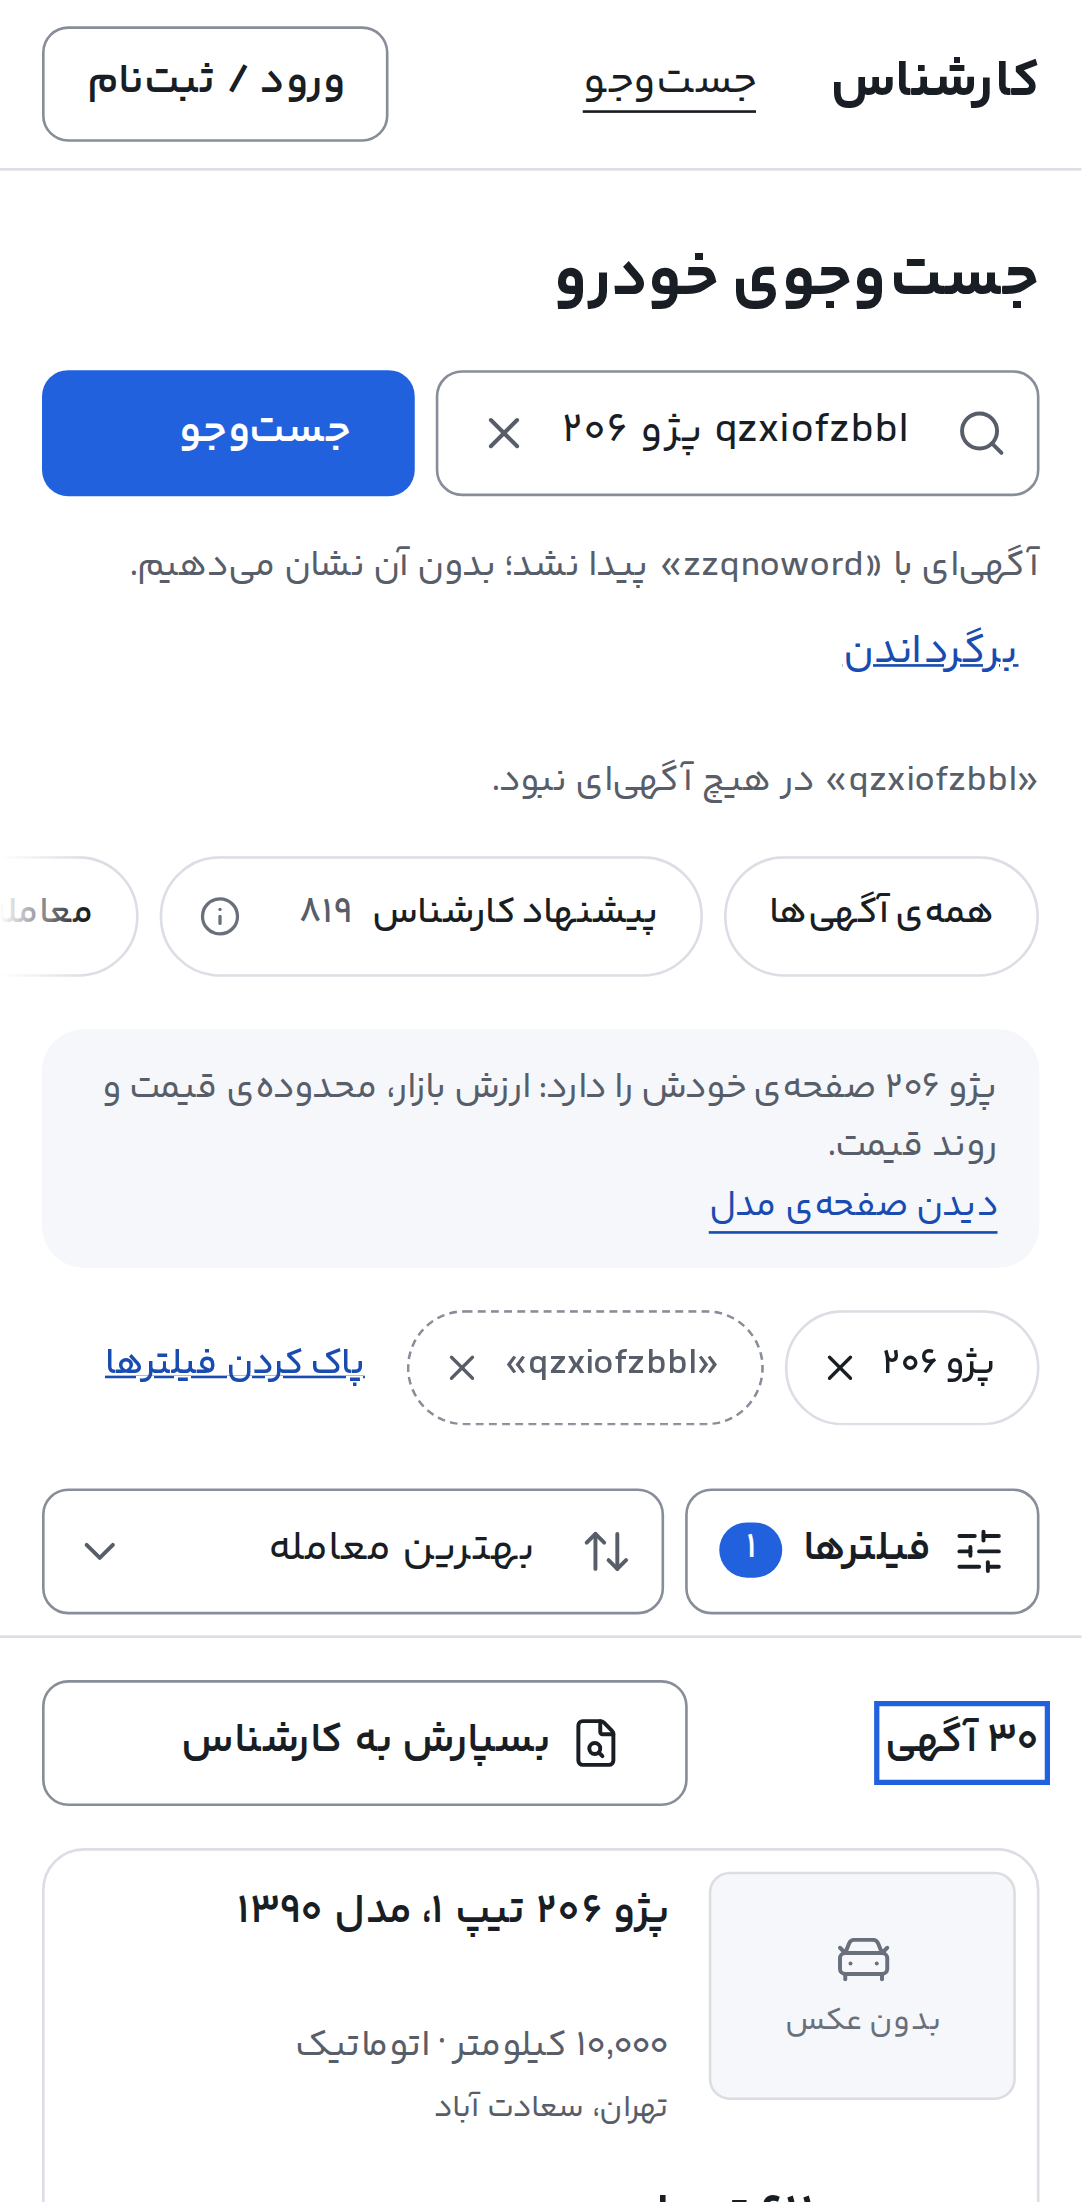
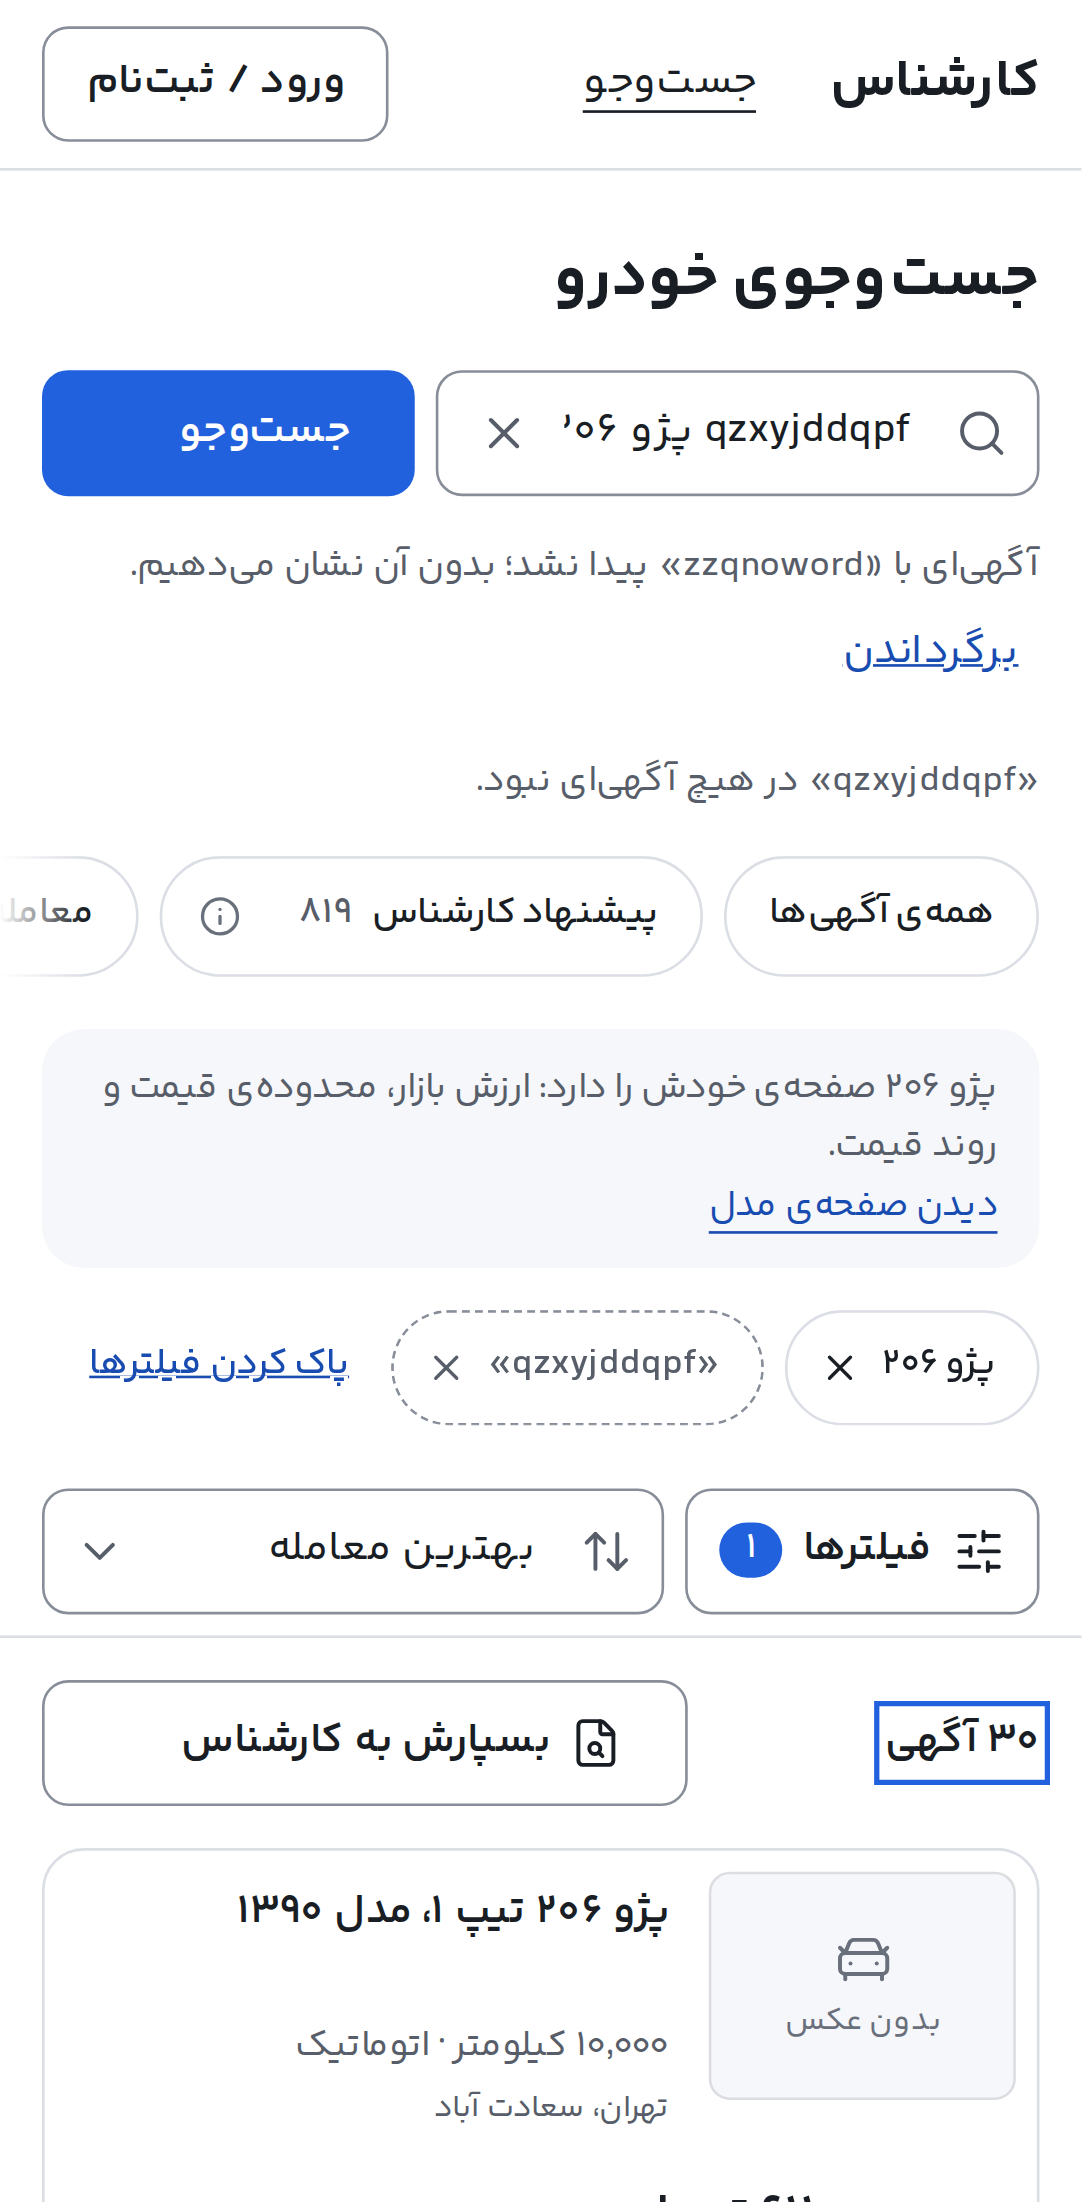
CS-111: the buyer's words are their own bidi run in the notice and the quiet chip; evidence of the counts; learnings; ADR timings

diff --git a/e2e/tests/app/plain-search.spec.ts b/e2e/tests/app/plain-search.spec.ts
@@ -250,6 +250,34 @@ test.describe('the floor', () => {
     await expect(page.getByRole('button', { name: SMART_COPY.remove(seed.token) })).toBeVisible();
   });
 
+  test('nothing moves while a page with a sentence, a quiet chip and a line about left-out words loads', async ({
+    page,
+    seed,
+    browserName,
+  }) => {
+    test.skip(browserName !== 'chromium', 'layout-shift entries exist only in Chromium');
+    await page.addInitScript(() => {
+      let total = 0;
+      new PerformanceObserver((entries) => {
+        for (const entry of entries.getEntries() as (PerformanceEntry & {
+          value: number;
+          hadRecentInput: boolean;
+        })[]) {
+          if (!entry.hadRecentInput) total += entry.value;
+        }
+      }).observe({ type: 'layout-shift', buffered: true });
+      Object.defineProperty(window, 'layoutShiftTotal', { get: () => total });
+    });
+    const sentence = `${seed.token} پژو ۲۰۶ ${UNKNOWN_WORD}`;
+    await page.goto(`/search?q=${seed.token}&model=peugeot.206&ask=${encodeURIComponent(sentence)}`);
+    await expect(page.getByRole('region', { name: SMART_COPY.sentenceRegion })).toBeVisible();
+    await expect(page.getByRole('list', { name: SMART_COPY.results })).toBeVisible();
+    await page.evaluate(
+      () => new Promise((resolve) => requestAnimationFrame(() => requestAnimationFrame(resolve))),
+    );
+    expect(await page.evaluate(() => Number(Reflect.get(window, 'layoutShiftTotal')))).toBeLessThan(0.02);
+  });
+
   test('screenshots for the evidence', async ({ page, seed }, testInfo) => {
     await land(page, `${seed.token} پژو ۲۰۶ ${UNKNOWN_WORD}`);
     await expect(page.getByRole('region', { name: SMART_COPY.sentenceRegion })).toBeVisible();

diff --git a/apps/web/src/features/search/components/applied-chips.tsx b/apps/web/src/features/search/components/applied-chips.tsx
@@ -4,6 +4,7 @@ import { X } from 'lucide-react';
 import { Icon } from '@/components/ui/icon';
 import { useSearchNavigation } from '@/features/search/components/search-navigation';
 import { SEARCH_COPY } from '@/features/search/search-copy';
+import { isolatedWords } from '@/lib/isolated-words';
 import { canonical, type Search } from '@carshenas/search/search';
 
 // The applied filters as removable chips (listing-patterns.md: never a bare count): each says what it keeps in the
@@ -21,6 +22,8 @@ export type AppliedChip = {
   readonly label?: string;
   /** Words looked for in the listings' text, not a filter: drawn quieter (CS-111). */
   readonly quiet?: boolean;
+  /** The buyer's words inside `text`, set apart as their own run (they may be Latin or digits). */
+  readonly words?: string;
 };
 
 export function AppliedChips({ chips }: { chips: readonly AppliedChip[] }) {
@@ -43,7 +46,7 @@ export function AppliedChips({ chips }: { chips: readonly AppliedChip[] }) {
                   : 'border-divider bg-surface text-default'
               }`}
             >
-              {chip.text}
+              {chip.words === undefined ? chip.text : isolatedWords(chip.text, chip.words)}
               <Icon icon={X} size={16} />
             </button>
           </li>

diff --git a/apps/web/src/features/search/components/sentence-notes.tsx b/apps/web/src/features/search/components/sentence-notes.tsx
@@ -6,6 +6,7 @@ import { Icon } from '@/components/ui/icon';
 import { RefineReading } from '@/features/search/components/refine-reading';
 import { useSearchNavigation } from '@/features/search/components/search-navigation';
 import { SEARCH_COPY } from '@/features/search/search-copy';
+import { isolatedWords } from '@/lib/isolated-words';
 import type { SentenceView } from '@/lib/search-sentence';
 
 // What the page says about the sentence the buyer wrote, beside the filters it became (CS-111, S04): quiet lines, never a
@@ -46,7 +47,7 @@ export function SentenceNotes({
           role="status"
           className="flex flex-wrap items-center gap-x-2 text-secondary text-pretty text-muted"
         >
-          <span>{COPY.dropped(one.words)}</span>
+          <span>{isolatedWords(COPY.dropped(one.words), one.words)}</span>
           <button
             type="button"
             aria-label={COPY.putBackName(one.words)}

diff --git a/apps/web/src/features/search/components/sentence-notes.test.tsx b/apps/web/src/features/search/components/sentence-notes.test.tsx
@@ -55,6 +55,8 @@ test('a word left out is said with the one tap that puts it back, and the tap se
   const put: Search = { ...EMPTY_SEARCH, filters: { make: ['pride'] }, q: 'خوشگل' };
   show({ dropped: [{ words: 'خوشگل', put }] }, { sentence: 'پراید خوشگل' });
   expect(screen.getByRole('status')).toHaveTextContent(COPY.dropped('خوشگل'));
+  // The buyer's words are their own run inside the sentence: a Latin word keeps its direction and its quotes.
+  expect(screen.getByText('خوشگل', { selector: 'bdi' })).toBeInTheDocument();
   await user.click(screen.getByRole('button', { name: COPY.putBackName('خوشگل') }));
   expect(router.push).toHaveBeenCalledWith(
     `/search?q=${encodeURIComponent('خوشگل')}&make=pride&${new URLSearchParams({ ask: 'پراید خوشگل' }).toString()}`,

diff --git a/e2e/tests/app/home.spec.ts b/e2e/tests/app/home.spec.ts
@@ -507,8 +507,11 @@ test.describe('search box', () => {
       await heroBox(page).fill('پژو ۲۰۶ بدون رنگ');
       await heroBox(page).press('Enter');
       await expect(page).toHaveURL(/model=peugeot\.206/);
-      expect(new URL(page.url()).searchParams.get('nopaint')).toBe('1');
-      await expect(searchBar(page)).toHaveValue('پژو ۲۰۶ بدون رنگ');
+      const query = new URL(page.url()).searchParams;
+      expect(query.get('nopaint')).toBe('1');
+      expect(query.get('ask')).toBe('پژو ۲۰۶ بدون رنگ');
+      // The page itself needs its script to be drawn (its results stream into hidden elements that a script reveals):
+      // what a form without one can do is end at the right address.
     });
 
     test('an example chip works too', async ({ page }) => {

diff --git a/apps/web/src/features/search/components/applied-chips.test.tsx b/apps/web/src/features/search/components/applied-chips.test.tsx
@@ -23,6 +23,7 @@ const chips = [
   {
     key: 'q',
     text: SEARCH_COPY.chips.words('خوشگل'),
+    words: 'خوشگل',
     label: SEARCH_COPY.chips.remove('خوشگل'),
     without: { filters: { make: ['pride'] }, sort: 'price_asc' as const },
     quiet: true,
@@ -42,6 +43,7 @@ test('a word chip shows the words in quotes, is named «برداشتن «…»»
   const word = screen.getByRole('button', { name: SEARCH_COPY.chips.remove('خوشگل') });
   expect(word).toHaveTextContent('«خوشگل»');
   expect(word).toHaveClass('border-dashed');
+  expect(screen.getByText('خوشگل', { selector: 'bdi' })).toBeInTheDocument();
   expect(screen.getByRole('button', { name: SEARCH_COPY.chips.remove('پراید') })).not.toHaveClass(
     'border-dashed',
   );

diff --git a/apps/web/src/lib/isolated-words.tsx b/apps/web/src/lib/isolated-words.tsx
@@ -1,0 +1,18 @@
+import type { ReactNode } from 'react';
+
+// A text with the buyer's own words inside it set apart (`<bdi>`), so Latin words and digits typed into a right-to-left
+// sentence keep their own direction and the quotation marks around them stay where the sentence puts them (ui-design
+// rule 5, rtl-bidi.md). The text is one string from the copy files with the words in it once; the words are found in
+// it, so the copy is never split in two to make room for them.
+
+export function isolatedWords(text: string, words: string): ReactNode {
+  const at = words === '' ? -1 : text.indexOf(words);
+  if (at === -1) return text;
+  return (
+    <>
+      {text.slice(0, at)}
+      <bdi>{words}</bdi>
+      {text.slice(at + words.length)}
+    </>
+  );
+}

diff --git a/e2e/fixtures/smart-search.ts b/e2e/fixtures/smart-search.ts
@@ -100,7 +100,11 @@ export async function expectResultsShown(page: Page): Promise<void> {
  * context: nothing outside the app's own host is reached.
  */
 export async function primeSentenceSearch(browser: Browser, baseURL: string | undefined): Promise<void> {
-  const context = await browser.newContext(baseURL === undefined ? {} : { baseURL });
+  // Scripts on whatever the spec's own options say: a spec that tests the page without them still needs this one drawn.
+  const context = await browser.newContext({
+    javaScriptEnabled: true,
+    ...(baseURL === undefined ? {} : { baseURL }),
+  });
   const own = baseURL === undefined ? undefined : new URL(baseURL).host;
   await context.route(
     (url) => own !== undefined && url.host !== own,

diff --git a/apps/web/src/features/search/components/search-screen.tsx b/apps/web/src/features/search/components/search-screen.tsx
@@ -98,6 +98,7 @@ export async function SearchScreen({ searchParams, ask, understand, saveSearch }
           {
             key: 'q',
             text: SEARCH_COPY.chips.words(search.q),
+            words: search.q,
             label: SEARCH_COPY.chips.remove(search.q),
             without: canonical({ ...search, q: undefined }),
             quiet: true,

diff --git a/docs/learnings.md b/docs/learnings.md
@@ -121,3 +121,4 @@ Append-only. One dated line per non-obvious lesson from a finished task that is 
 - 2026-10-03 (CS-67): a price trend by listing posting date looks free and is wrong from the first day of a crawl that started late: 61 to 136 Peugeot 206 listings posted a day before the crawl began against 370 to 500 after it, because what sold in between is not in the table, so older weeks show only unsold cars. The honest series is what the product records itself, here each valuation run's asking prices, which was three days long when the page was built; so the page's real work is its short-history states («تاریخچه هنوز کوتاه است», no 30- or 90-day change). An info control's 44 px hit area makes its label row 44 px tall and misaligns the neighbouring cards' values; wrap it in a `-my-3` span. A trend query that starts from the runs' rows (every listing in every run) is 35 ms at three runs and grows with each; start it from one model year's listings and index that (`listing_model_year_idx`).
 - 2026-10-03 (CS-71): a CTE that inserts ON CONFLICT DO NOTHING and selects the existing row in the same statement misses a row a concurrent insert just committed (the statement keeps its snapshot); insert, then select in a second statement.
 - 2026-10-03 (CS-101): the valuation model's mileage effect is only 5 to 14 % between 100 km and 100,000 km on a car under nine years old (its error is 15 %), so a price cannot tell a near-new car from a used one there; the price test works only on old cars with a large written figure (20 of 48), and the listing's own words («صفر خشک», «۶۰ هزار», «۷۰کیلومتر راه رفته») do the rest. Figures of speech («در حد صفر», «موتور صفر») are not wordings.
+- 2026-10-04 (CS-111): a Server Action's `redirect()` is not a client navigation: it keeps no hidden copy of the page it leaves (after Back the hero's box was empty, where a link or `router.push` keeps it under Activity) and it remounts the destination's tree (focus fell to the body after Enter on the search page). The one-step box therefore asks the action from a transition, gets the address back (`{ status: 'found', href }`) and navigates with the router, and the server redirects only for a form posted without the script (`by=script` tells them apart, so it still works before hydration). The first sentence a process reads waits for the lexicon's nine reads (4 s on a machine at load 36, 20 to 270 ms after): a lexicon past its five minutes is now served while it refreshes, and the browser tests prime it once. `getByRole('alert')` also matches Next's empty route announcer: filter by the text.

diff --git a/docs/decisions/0043-search-by-sentence-in-one-step.md b/docs/decisions/0043-search-by-sentence-in-one-step.md
@@ -34,7 +34,7 @@ The first version of plain-Farsi search (CS-62, CS-93, CS-63) asked too much of 
 ## Consequences
 
 - One step from the hero (type, Enter) and from the search page; Back brings the previous page with its box content; the address is the shareable canonical filter form plus `ask`, so a reload and a shared link show the same box and the same lines.
-- The cost over a server redirect is one more round trip for a scripted submit (the action answers, then the page is fetched); the action itself takes a few milliseconds (the one log line has `durationMs`; measured on the lane's data, see the task notes). Prefetching `/search`'s shell makes the second request show the skeleton at once.
+- The cost over a server redirect is one more round trip for a scripted submit (the action answers, then the page is fetched). The action itself, from its one log line (`durationMs`) on a machine at load 31 to 36 with the lane's 6,683 searchable listings: 1 to 2 ms for a sentence with no unread word, 18 to 480 ms when its counts are asked (each count is under a millisecond in the database, `docs/evidence/query-understanding/2026-10-04/explain-counts.md`), and 4 s for the first sentence of a process, which waited for the lexicon's nine reads; a lexicon past its five minutes is now served while it refreshes, so only a process's first sentence waits.
 - The count queries (one to a handful per sentence with unread words, none otherwise, stopped at the first listing) are the existing search count with `countCap: 1`; no new SQL and no migration.
 - Without scripts the search page itself shows nothing (Cache Components streams it into hidden elements that a script reveals; learned with CS-65), so the no-script path ends at the right address and the redirect, not at a drawn page; before the script has loaded the page is drawn and the form works.
 - The short vague example in the hero («یک ماشین تمیز، کمکارکرد و بیدردسر») lands on its five filters, not on the catalogue «تمیز و بیدردسر»: the understanding's bundle needs the words about the technical condition, and its rules belong to the understanding (CS-99's lane touches them); to make the hero's example land on the catalogue the owner can ask for a phrase rule («بیدردسر» implies technically sound).

diff --git a/docs/evidence/query-understanding/2026-10-04/explain-counts.md b/docs/evidence/query-understanding/2026-10-04/explain-counts.md
@@ -1,0 +1,25 @@
+# The counts the one-step search asks (CS-111)
+
+`searchListings({ search, limit: 0, countCap: 1, quiet: true })`: the existing search count, stopped at the second listing it finds
+(`LIMIT 2` inside `count(*)`), so only "none or some" is read. No new SQL and no migration: the sentence flow asks it once for the
+filters of a sentence that has unread words, once more for the whole, and, when the whole finds nothing, once per group it could drop.
+
+`EXPLAIN (ANALYZE, BUFFERS)` on the lane's copy of main's data (6,683 rows in `search_document`, 2026-10-04, second run of each; the
+statement is the one the function builds, `searchableWhere` with the freshness window and the tsquery `search_query()` makes):
+
+| count | found (capped at 2) | execution ms | planning ms | buffers | scans |
+|---|---|---|---|---|---|
+| model 206 alone | 2 | 0.15 | 0.32 | 5 | Index model_key_idx |
+| model 206 + word with 134 listings «شهرک» | 2 | 0.59 | 0.35 | 62 | Index model_key_idx |
+| model 206 + word that finds none «zzqnoword» | 0 | 0.16 | 0.40 | 7 | Bitmap Heap, Bitmap Index text_idx |
+| model 206 + two words, none found | 0 | 0.19 | 0.30 | 9 | Bitmap Heap, Bitmap Index text_idx |
+| word alone that finds none «asdfgh» | 0 | 0.13 | 0.30 | 7 | Bitmap Heap, Bitmap Index text_idx |
+| word alone, common «سفید» (794 of 6,683) | 2 | 0.06 | 0.27 | 3 | Seq |
+| make with no listing («mazda») | 0 | 0.08 | 0.28 | 2 | Index make_key_idx |
+| price, paint free, model, year + word that finds none | 0 | 0.14 | 0.39 | 7 | Bitmap Heap, Bitmap Index text_idx |
+
+The worst case of one sentence is four unread groups all finding nothing together: one count for the filters, one for all four, then
+four for the drops and four, three, two and one more as groups go: at most 16 of these, each under a millisecond of execution.
+Measured at the web role's end, a sentence with unread words took 18 to 270 ms inside the action on a machine at load 36 (the
+action's log line, `durationMs`), 4 s for the first sentence of a process (the lexicon's nine reads, now served stale while it
+refreshes).
